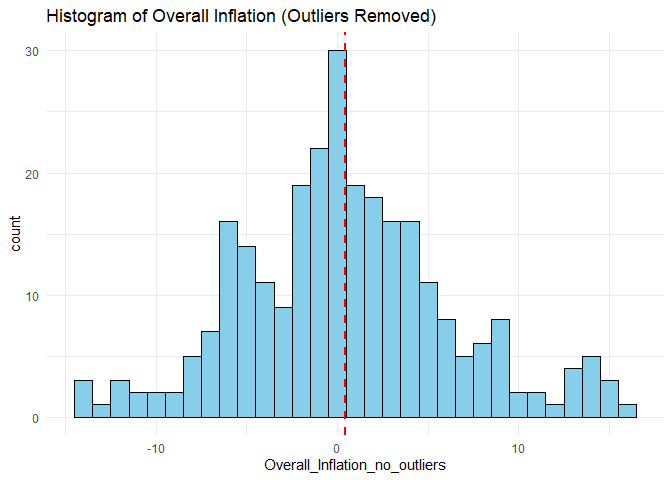
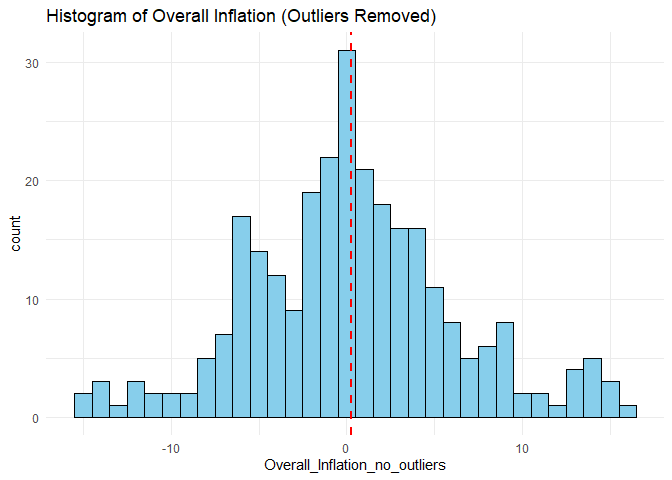
Updated to correct error prompting reproduction

diff --git a/Data Testing/Normality/Normality-Tests-and-Graphs.md b/Data Testing/Normality/Normality-Tests-and-Graphs.md
@@ -4,57 +4,42 @@ Normality test
 
 ## Overall Inflation Plots
 
-
-![](Normality-Tests-and-Graphs_files/figure-gfm/plots-1.png)<!-- -->
-
-
-![](Normality-Tests-and-Graphs_files/figure-gfm/plots-2.png)<!-- -->
-
-
-![](Normality-Tests-and-Graphs_files/figure-gfm/plots-3.png)<!-- -->
-
-
-![](Normality-Tests-and-Graphs_files/figure-gfm/plots-4.png)<!-- -->
-
-
+![](Normality-Tests-and-Graphs_files/figure-gfm/plots-1.png)<!-- -->![](Normality-Tests-and-Graphs_files/figure-gfm/plots-2.png)<!-- -->![](Normality-Tests-and-Graphs_files/figure-gfm/plots-3.png)<!-- -->![](Normality-Tests-and-Graphs_files/figure-gfm/plots-4.png)<!-- -->
 
 ## Egg Inflation Plots
 
-![](Normality-Tests-and-Graphs_files/figure-gfm/plots-5.png)<!-- -->
+![](Normality-Tests-and-Graphs_files/figure-gfm/egg%20inflation%20plots-1.png)<!-- -->![](Normality-Tests-and-Graphs_files/figure-gfm/egg%20inflation%20plots-2.png)<!-- -->![](Normality-Tests-and-Graphs_files/figure-gfm/egg%20inflation%20plots-3.png)<!-- -->![](Normality-Tests-and-Graphs_files/figure-gfm/egg%20inflation%20plots-4.png)<!-- -->
 
-![](Normality-Tests-and-Graphs_files/figure-gfm/plots-6.png)<!-- -->
-
-![](Normality-Tests-and-Graphs_files/figure-gfm/plots-7.png)<!-- -->
-
-![](Normality-Tests-and-Graphs_files/figure-gfm/plots-8.png)<!-- -->
-
-## Shapiro-Wilk test for normality tests
+## Shapiro-Wilk test for normality
 
 ### Original Overall
+
     ## 
     ##  Shapiro-Wilk normality test
     ## 
     ## data:  inflation_long$Overall_Inflation
-    ## W = 0.96145, p-value = 6.232e-07
+    ## W = 0.96006, p-value = 3.193e-07
 
-### Overall No Outliers
+### Original No Outliers
 
     ## 
     ##  Shapiro-Wilk normality test
     ## 
     ## data:  inflation_long_no_outliers$Overall_Inflation_no_outliers
-    ## W = 0.98683, p-value = 0.01393
+    ## W = 0.98663, p-value = 0.011
 
-### Original Eggs
+### Original Egg Inflation
+
     ## 
     ##  Shapiro-Wilk normality test
     ## 
     ## data:  inflation_long$Egg_Inflation_Dif
-    ## W = 0.96084, p-value = 5.161e-07
+    ## W = 0.96048, p-value = 3.624e-07
 
-### Eggs No Ouliers
+### Egg Inflation No Outliers
+
     ## 
     ##  Shapiro-Wilk normality test
     ## 
     ## data:  inflation_long__egg_no_outliers$Egg_Inflation_Dif_no_outliers
-    ## W = 0.99058, p-value = 0.07932
+    ## W = 0.99044, p-value = 0.0691
